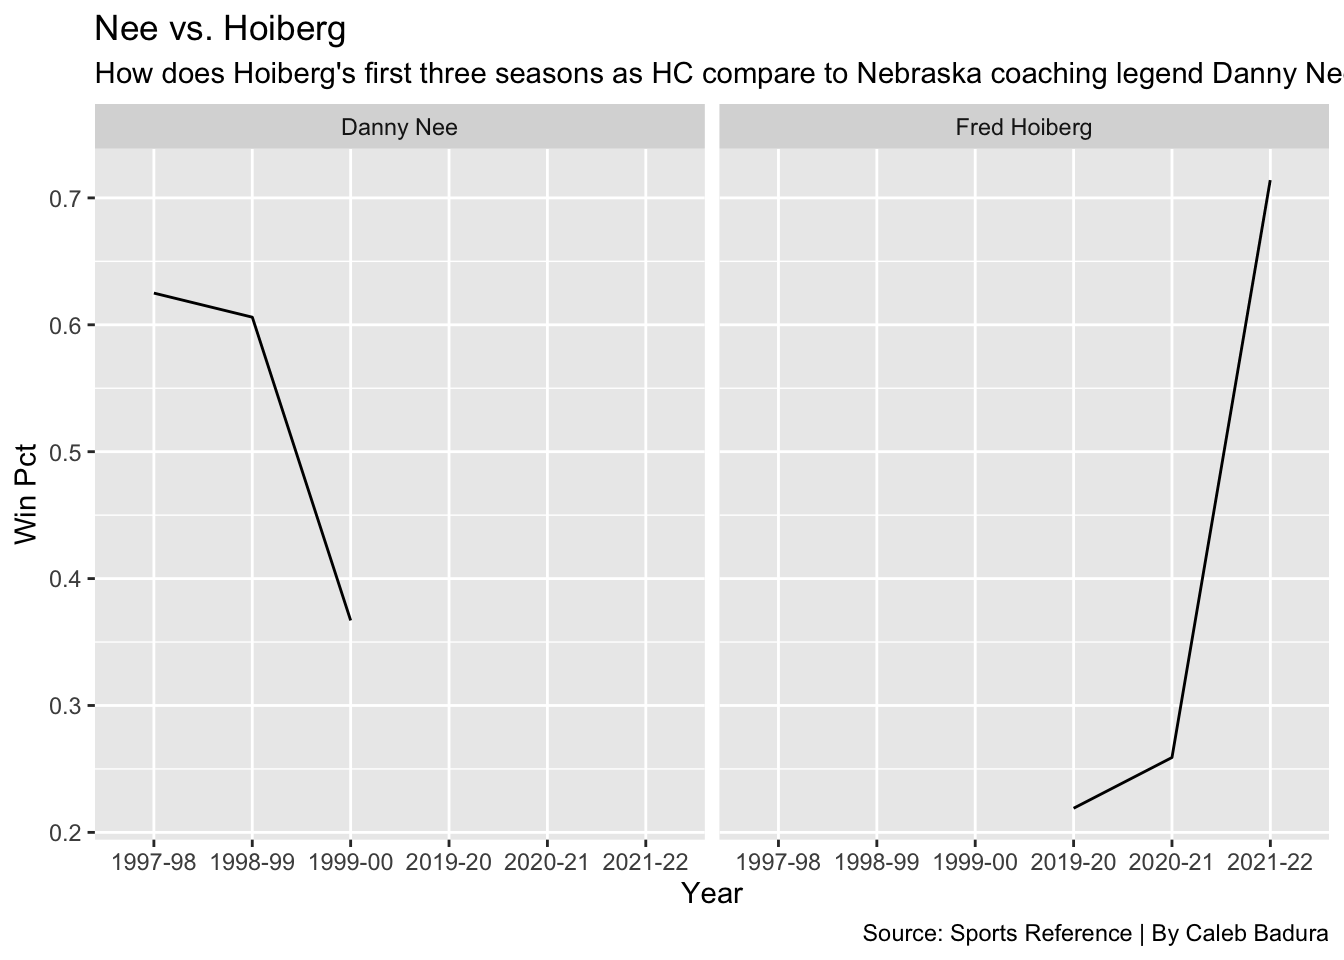
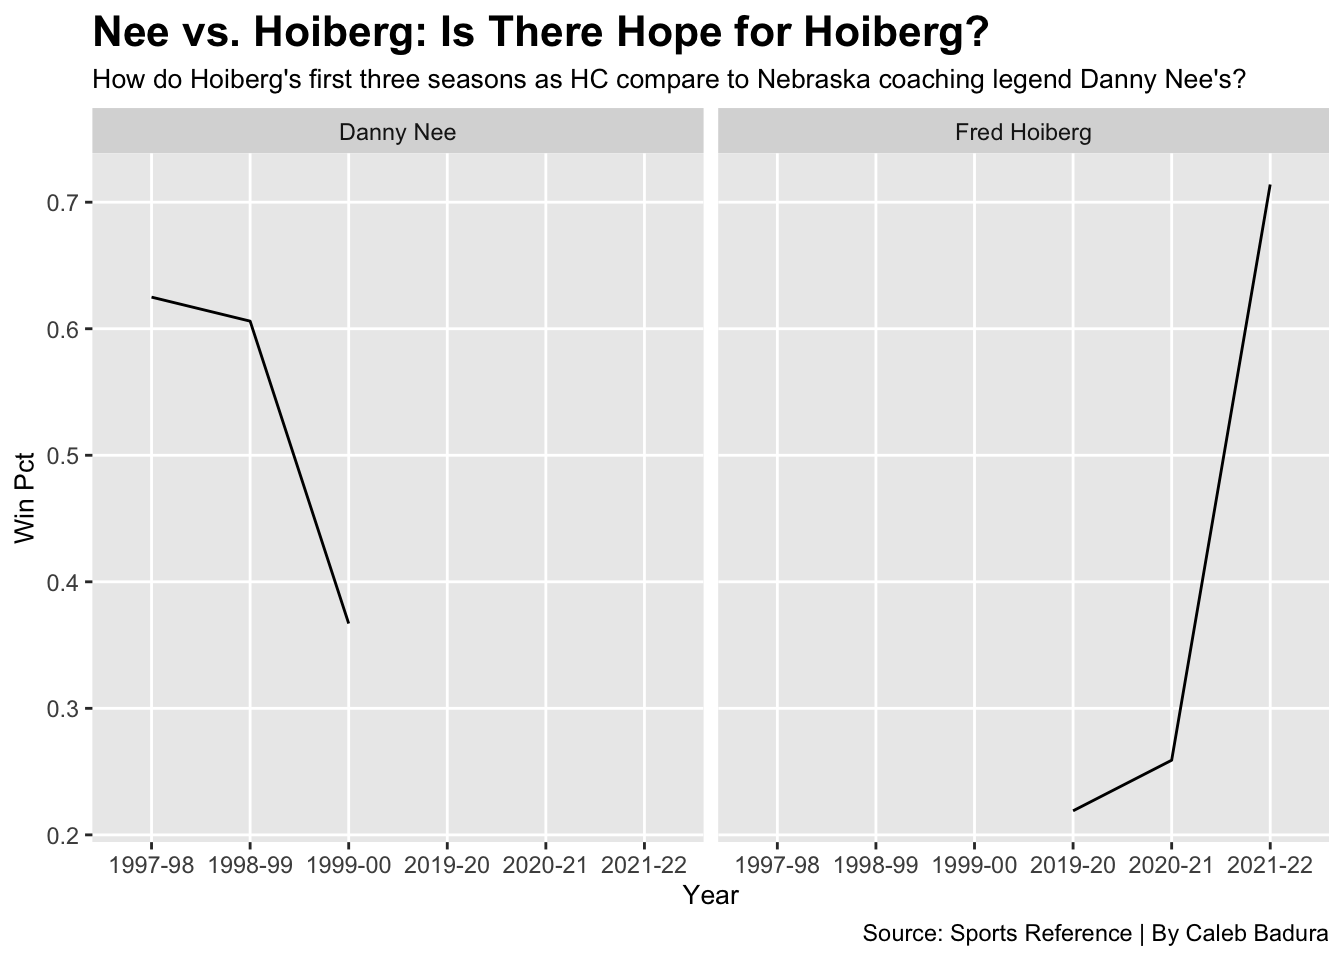
Neb Coaches

diff --git a/2021/11/30/hot-seats-for-nebraska-coaches/index.html b/2021/11/30/hot-seats-for-nebraska-coaches/index.html
@@ -22,6 +22,11 @@
 
 
 
+
+<link href='//cdnjs.cloudflare.com/ajax/libs/highlight.js/9.12.0/styles/github.min.css' rel='stylesheet' type='text/css' />
+
+
+
 <link rel="stylesheet" href="/css/fonts.css" media="all">
 <link rel="stylesheet" href="/css/main.css" media="all">
 
@@ -57,7 +62,7 @@
 
   <article class="article">
     
-    <span class="article-duration">0 min read</span>
+    <span class="article-duration">7 min read</span>
     
 
     <h1 class="article-title">Hot Seats for Nebraska Coaches? </h1>
@@ -71,6 +76,138 @@
 <script src="http://calebbadura.github.io/2021/11/30/hot-seats-for-nebraska-coaches/index_files/header-attrs/header-attrs.js"></script>
 
 
+<p>Scott Frost and Fred Hoiberg have had an interesting few years as head coaches at the University of Nebraska. Frost, who just finished his fourth year as the coach of Nebraska Football, now carries a 15-29 record in his Nebraska career. On the other hand, Fred Hoiberg, now holds a 19-48 record as he has just begun his third season as the head coach of Nebraska Basketball.</p>
+<p>Not too hot.</p>
+<p>But their seats on the other hand, may be warming up.</p>
+<pre class="r"><code>library(tidyverse)
+library(gt)
+library(ggbump)</code></pre>
+<p>Do either of these coaches need to be concerned with losing their jobs in the near future? I will be taking a look at various data, including past records, win percentages, and recruiting rankings to take a deeper dive into what the future holds for these two Nebraska head coaches.</p>
+<pre class="r"><code>huskerfbnation &lt;- read_csv(&quot;~/Desktop/PROJECT #2 DATA/Nebraska Cornhuskers FB Stats (1).csv&quot;)</code></pre>
+<pre class="r"><code>nebrasketball &lt;- read_csv(&quot;~/Desktop/PROJECT #2 DATA/Nebraska Cornhuskers Bball Stats.csv&quot;) %&gt;% mutate(Date = as.Date(Date))</code></pre>
+<p>First off, I will be taking data from Sports Reference to look at in-depth stats from each season in both Nebraska football and basketball history. Let’s start off with some Cornhusker Football.</p>
+<pre class="r"><code>huskerfbnationwinpct &lt;- huskerfbnation %&gt;%
+  select(Year, WinPct, `Coach(es)`)</code></pre>
+<p>To narrow down the data, I will be selecting Win Percentages from each season.</p>
+<pre class="r"><code>frost &lt;- huskerfbnationwinpct %&gt;% 
+  filter(`Coach(es)` == &#39;Scott Frost&#39;)</code></pre>
+<pre class="r"><code>to &lt;- huskerfbnationwinpct %&gt;% 
+  filter(`Coach(es)` == &#39;Tom Osborne&#39;)</code></pre>
+<p>How does Scott Frost’s tenure at Nebraska compare to Nebraska legend’s Tom Osborne? I will be highlighting Coach Osborne’s seasons in Green and Coach Frost’s in Red.</p>
+<pre class="r"><code>ggplot() + 
+  geom_point(data=huskerfbnationwinpct, aes(x=Year, y=WinPct)) +
+  geom_point(data=frost, aes(x=Year, y=WinPct), color=&quot;red&quot;)+
+  geom_point(data=to, aes(x=Year, y=WinPct),color=&quot;Green&quot;) + 
+  labs(
+    x=&quot;Year&quot;, 
+    y=&quot;Win Pct&quot;, 
+    title=&quot;Frost-Era Near the Worst&quot;, 
+    subtitle=&quot;Legendary coach Tom Osborne finished one season under .750.  In 4 seasons, Scott Frost hasn&#39;t finished above .500&quot;,
+    caption=&quot;Source: Sports Reference | By Caleb Badura&quot;
+    ) + 
+  theme_minimal() + 
+  theme(
+    plot.title = element_text(size = 16, face = &quot;bold&quot;),
+    axis.title = element_text(size = 10), 
+    plot.subtitle = element_text(size=9), 
+    panel.grid.minor = element_blank()
+    )</code></pre>
+<p><img src="http://calebbadura.github.io/2021/11/30/hot-seats-for-nebraska-coaches/index_files/figure-html/unnamed-chunk-7-1.png" width="672" />
+Frost’s win percentages over his four seasons at Nebraska have been quite disappointing. Consistent is what comes to mind when looking at Coach Osborne’s legendary run as HC. Yes, those are the glory days, and Coach Frost has a lot of work to do, but there’s always next year… right?</p>
+<p>Now how about Fred Hoiberg and “Nebrasketball?” How have his seasons as HC stacked up against some of the greats?</p>
+<p>Coach Hoiberg just began his third season at the helm of Husker Hoops, so what is a realistic expectation for this year?</p>
+<p>I will be adding filters to narrow down my results to each HC in Nebraska basketball history and their win percentages in their first three seasons.</p>
+<pre class="r"><code>top3seasons &lt;- nebrasketball %&gt;% 
+  group_by(`Coach(es)`) %&gt;% 
+  slice_min(order_by= Season, n = 3) %&gt;%
+  filter(`Coach(es)`== &quot;Fred Hoiberg&quot;| `Coach(es)`== &quot;Tim Miles&quot; | `Coach(es)`== &quot;Doc Sadler&quot; | `Coach(es)`== &quot;Barry Collier&quot; | `Coach(es)`== &quot;Danny Nee&quot; | `Coach(es)`== &quot;Moe Iba&quot; | `Coach(es)`== &quot;Joe Cipriano&quot; | `Coach(es)`== &quot;Jerry Bush&quot; | `Coach(es)`== &quot;Harry Good&quot; | `Coach(es)`== &quot;Adolph Lewandowski&quot; | `Coach(es)`== &quot;William Browne&quot; | `Coach(es)`== &quot;Charlie Black&quot; | `Coach(es)`== &quot;Doc Stewart&quot; | `Coach(es)`== &quot;Jumbo Stiehm&quot; | `Coach(es)`== &quot;R.G. Clapp&quot;)</code></pre>
+<pre class="r"><code>ggplot() + 
+  geom_line(data=top3seasons, aes(x=Date, y=WinPct,group=`Coach(es)`)) + 
+  facet_wrap(~`Coach(es)`) + 
+  labs(
+    x=&quot;Year&quot;, 
+    y=&quot;Win Pct&quot;, 
+    title=&quot;How Do Fred Hoiberg&#39;s First Three Seasons Stack Up?&quot;, 
+    subtitle=&quot;The first three seasons of head coaches at Nebraska vary greatly in win percentage.&quot;,
+    caption=&quot;Source: Sports Reference | By Caleb Badura&quot;
+    ) + 
+  theme_minimal() + 
+  theme(
+    plot.title = element_text(size = 14, face = &quot;bold&quot;),
+    axis.title = element_text(size = 11), 
+    plot.subtitle = element_text(size=10), 
+    panel.grid.minor = element_blank()
+    )</code></pre>
+<p><img src="http://calebbadura.github.io/2021/11/30/hot-seats-for-nebraska-coaches/index_files/figure-html/unnamed-chunk-9-1.png" width="768" />
+Now that we have all the coaches and their first three seasons, we can see just how up and down college hoops from year-to-year can be. To be more specific, lets take a look at arguably the most successful coach in Nebraska basketball history, Danny Nee. In his 14 seasons as HC, Nee carried a 254-190 record and led the Huskers to five NCAA tournament appearances. How were Coach Nee’s first three seasons in comparison to Coach Hoiberg’s?</p>
+<pre class="r"><code>hoibergnee &lt;- nebrasketball %&gt;% 
+  group_by(`Coach(es)`) %&gt;% 
+  slice_min(order_by= Season, n = 3) %&gt;%
+  filter(`Coach(es)`== &quot;Fred Hoiberg&quot; | `Coach(es)` == &quot;Danny Nee&quot;)</code></pre>
+<pre class="r"><code>ggplot() + 
+  geom_line(data=hoibergnee, aes(x=Season, y=WinPct,group=`Coach(es)`)) + 
+  facet_wrap(~`Coach(es)`) + 
+  labs(
+    x=&quot;Year&quot;, 
+    y=&quot;Win Pct&quot;, 
+    title=&quot;Nee vs. Hoiberg: Is There Hope for Hoiberg?&quot;, 
+    subtitle=&quot;How do Hoiberg&#39;s first three seasons as HC compare to Nebraska coaching legend Danny Nee&#39;s?&quot;,
+    caption=&quot;Source: Sports Reference | By Caleb Badura&quot;
+    ) + 
+  theme_gray() + 
+  theme(
+    plot.title = element_text(size = 16, face = &quot;bold&quot;),
+    axis.title = element_text(size = 10), 
+    plot.subtitle = element_text(size=10), 
+    panel.grid.minor = element_blank()
+    )</code></pre>
+<p><img src="http://calebbadura.github.io/2021/11/30/hot-seats-for-nebraska-coaches/index_files/figure-html/unnamed-chunk-11-1.png" width="672" />
+Coach Nee’s squad bounced back after his second season, while Coach Hoiberg’s squad is continuing to trend upward after a 5-2 start to the year. Maybe there is hope for Nebrasketball after all.</p>
+<pre class="r"><code>cfbrankings &lt;- read_csv(&quot;~/Desktop/PROJECT #2 DATA/CFB Recruting Rankings.csv&quot;)</code></pre>
+<pre class="r"><code>cbbrankings &lt;- read_csv(&quot;~/Desktop/PROJECT #2 DATA/CBB Recruiting Rankings.csv&quot;)</code></pre>
+<p>A team’s performance and win percentages are one thing, but recruiting is also a major indicator of how good of a job a coaching staff is doing. I will be loading data from Rivals.com, which gives the recruiting rankings of each college football and basketball team over the past few years.</p>
+<pre class="r"><code>frostrecruiting &lt;- cfbrankings %&gt;%
+  filter(SCHOOL == &quot;Nebraska&quot;)</code></pre>
+<pre class="r"><code>hoibergrecruiting &lt;- cbbrankings %&gt;%
+  filter(SCHOOL == &quot;Nebraska&quot;)</code></pre>
+<p>With this data, I will be focusing on Nebraska’s rankings, which is why I created these two dataframes for specifically Frost and Hoiberg.</p>
+<pre class="r"><code>ggplot() + geom_line(data=hoibergrecruiting, aes(x=CLASS, y=RANK), color=&quot;red&quot;) + scale_y_reverse()+ 
+  labs(
+    x=&quot;Class&quot;, 
+    y=&quot;Rank&quot;, 
+    title=&quot;Is Nebrasketball Back?&quot;, 
+    subtitle=&quot;With a Top 25 recruiting class, Coach Hoiberg is poised to make a run this season.&quot;,
+    caption=&quot;Source: Rivals | By Caleb Badura&quot;
+    ) + 
+  theme_minimal() + 
+  theme(
+    plot.title = element_text(size = 16, face = &quot;bold&quot;),
+    axis.title = element_text(size = 10), 
+    plot.subtitle = element_text(size=10), 
+    panel.grid.minor = element_blank()
+    )</code></pre>
+<p><img src="http://calebbadura.github.io/2021/11/30/hot-seats-for-nebraska-coaches/index_files/figure-html/unnamed-chunk-16-1.png" width="672" />
+It took Fred Hoiberg only a couple seasons to secure the first five-star high school recruit in program history in Bryce McGowens. With that and a few other key signees, Nebrasketball landed a Top-25 recruiting class in 2021. Although Hoiberg’s record as a coach at Nebraska has been quite poor, this year’s recruiting class shows that Hoiberg is beginning to get his guys in. Although the Big Ten conference play this year may be a struggle, watch out for Nebrasketball to make a run.</p>
+<p>Next, let’s take a look at Scott Frost’s recruiting over his past few season while at Nebraska.</p>
+<pre class="r"><code>ggplot() + geom_line(data=frostrecruiting, aes(x=CLASS, y=RANK), color=&quot;red&quot;) + scale_y_reverse()+ 
+  labs(
+    x=&quot;Class&quot;, 
+    y=&quot;Rank&quot;, 
+    title=&quot;Meanwhile... Nebraska Football May Not Be&quot;, 
+    subtitle=&quot;Although consistently in the Top 20 recruiting classes, Frost&#39;s squads are on a decline &quot;,
+    caption=&quot;Source: Rivals | By Caleb Badura&quot;
+    ) + 
+  theme_minimal() + 
+  theme(
+    plot.title = element_text(size = 16, face = &quot;bold&quot;),
+    axis.title = element_text(size = 8), 
+    plot.subtitle = element_text(size=10), 
+    panel.grid.minor = element_blank()
+    )</code></pre>
+<p><img src="http://calebbadura.github.io/2021/11/30/hot-seats-for-nebraska-coaches/index_files/figure-html/unnamed-chunk-17-1.png" width="672" />
+Although Nebraska football has always been a force in college football recruiting, Scott Frost has vaulted them into the Top 20. Recent decline in the rankings over the past couple classes may not be a great trend for Frost and staff, but consistently being in company with the top teams in the country is a positive. Although, this graph and recruiting rankings show that recruiting may not be the issue for Nebraska football.</p>
+<p>The recent struggles of both of these coaches and their squads come as a bit of a surprise once one goes through this data. Experiencing losing seasons year after year with Top 25 recruiting classes is not a great trend. My theory for these struggles is that there may be a bit of bad luck, but also just growing pains and a bit stiffer competition. Coach Hoiberg and Coach Frost have had success at previous schools, but Big Ten play is a whole different monster. Recruiting and getting the right guys certainly takes time, which is why Husker fans need to take it easy.</p>
+<p>Although, the coming seasons for both of these coaches will be a major indicator on their futures in Lincoln.</p>
 
     </div>
   </article>
@@ -93,6 +230,18 @@
 
     </div>
     
+
+
+
+<script src="//cdnjs.cloudflare.com/ajax/libs/highlight.js/9.12.0/highlight.min.js"></script>
+
+
+
+<script src="//cdnjs.cloudflare.com/ajax/libs/highlight.js/9.12.0/languages/r.min.js"></script>
+<script src="//cdnjs.cloudflare.com/ajax/libs/highlight.js/9.12.0/languages/yaml.min.js"></script>
+<script>hljs.configure({languages: []}); hljs.initHighlightingOnLoad();</script>
+
+
 
     
 
